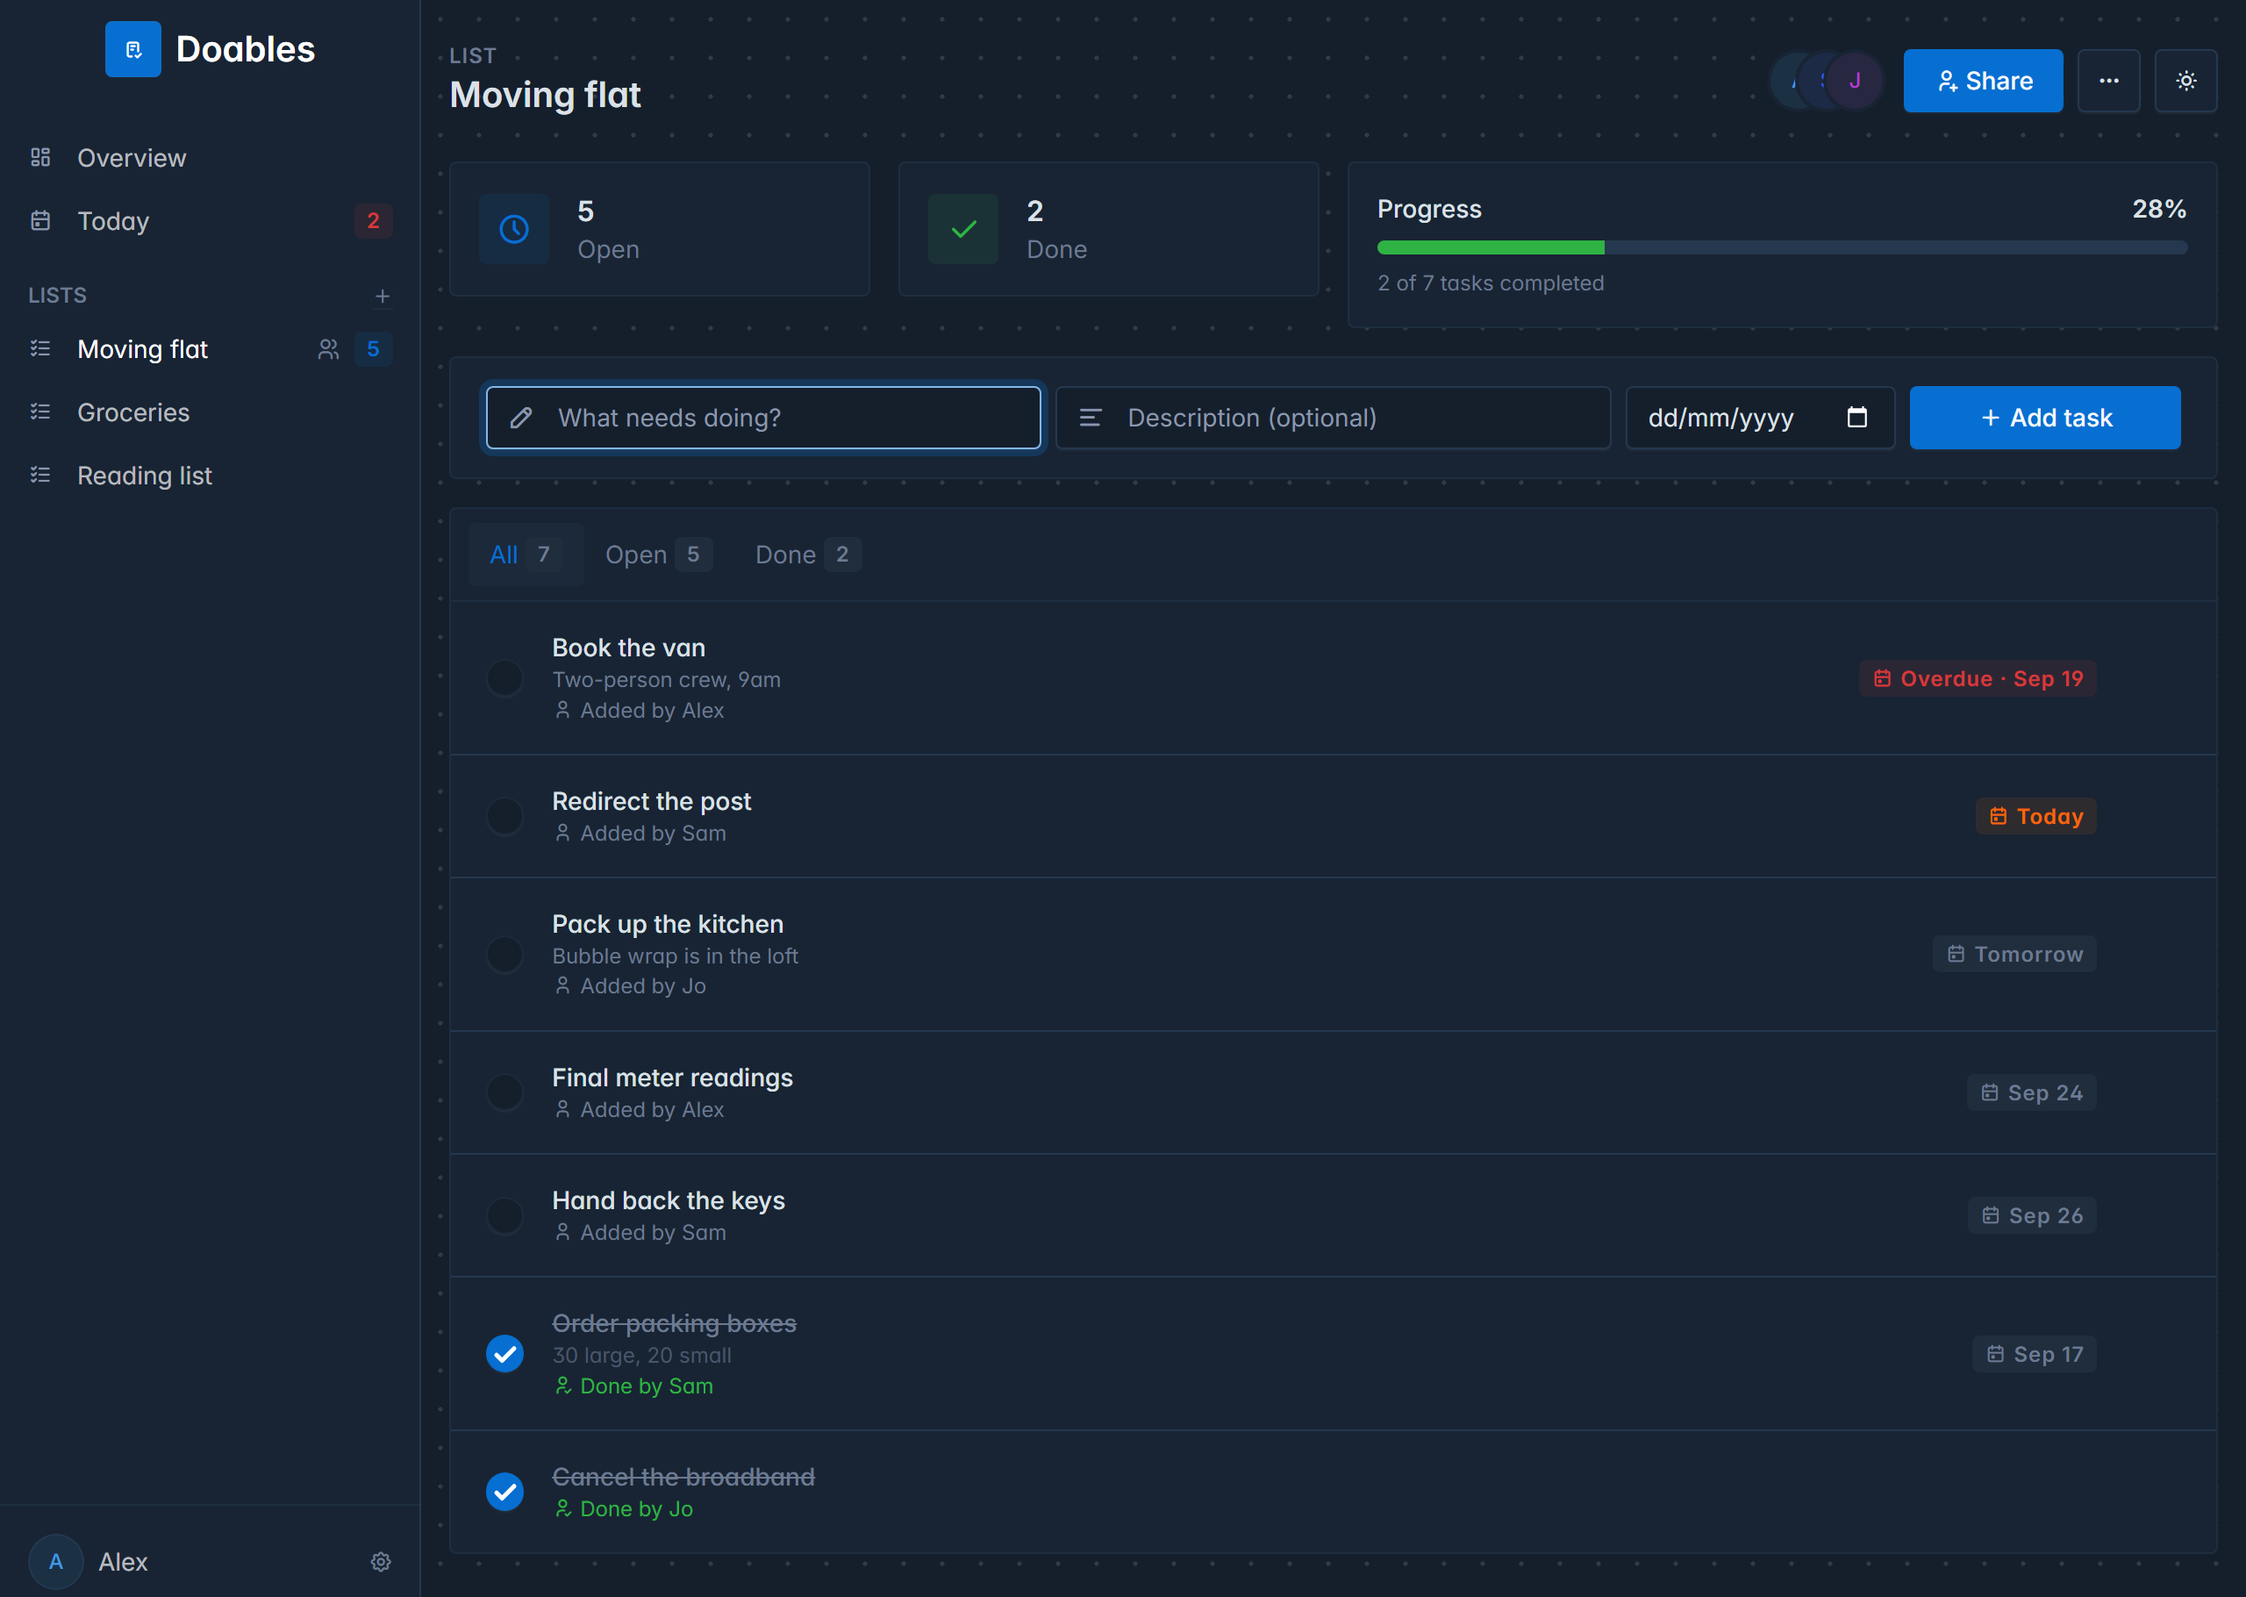
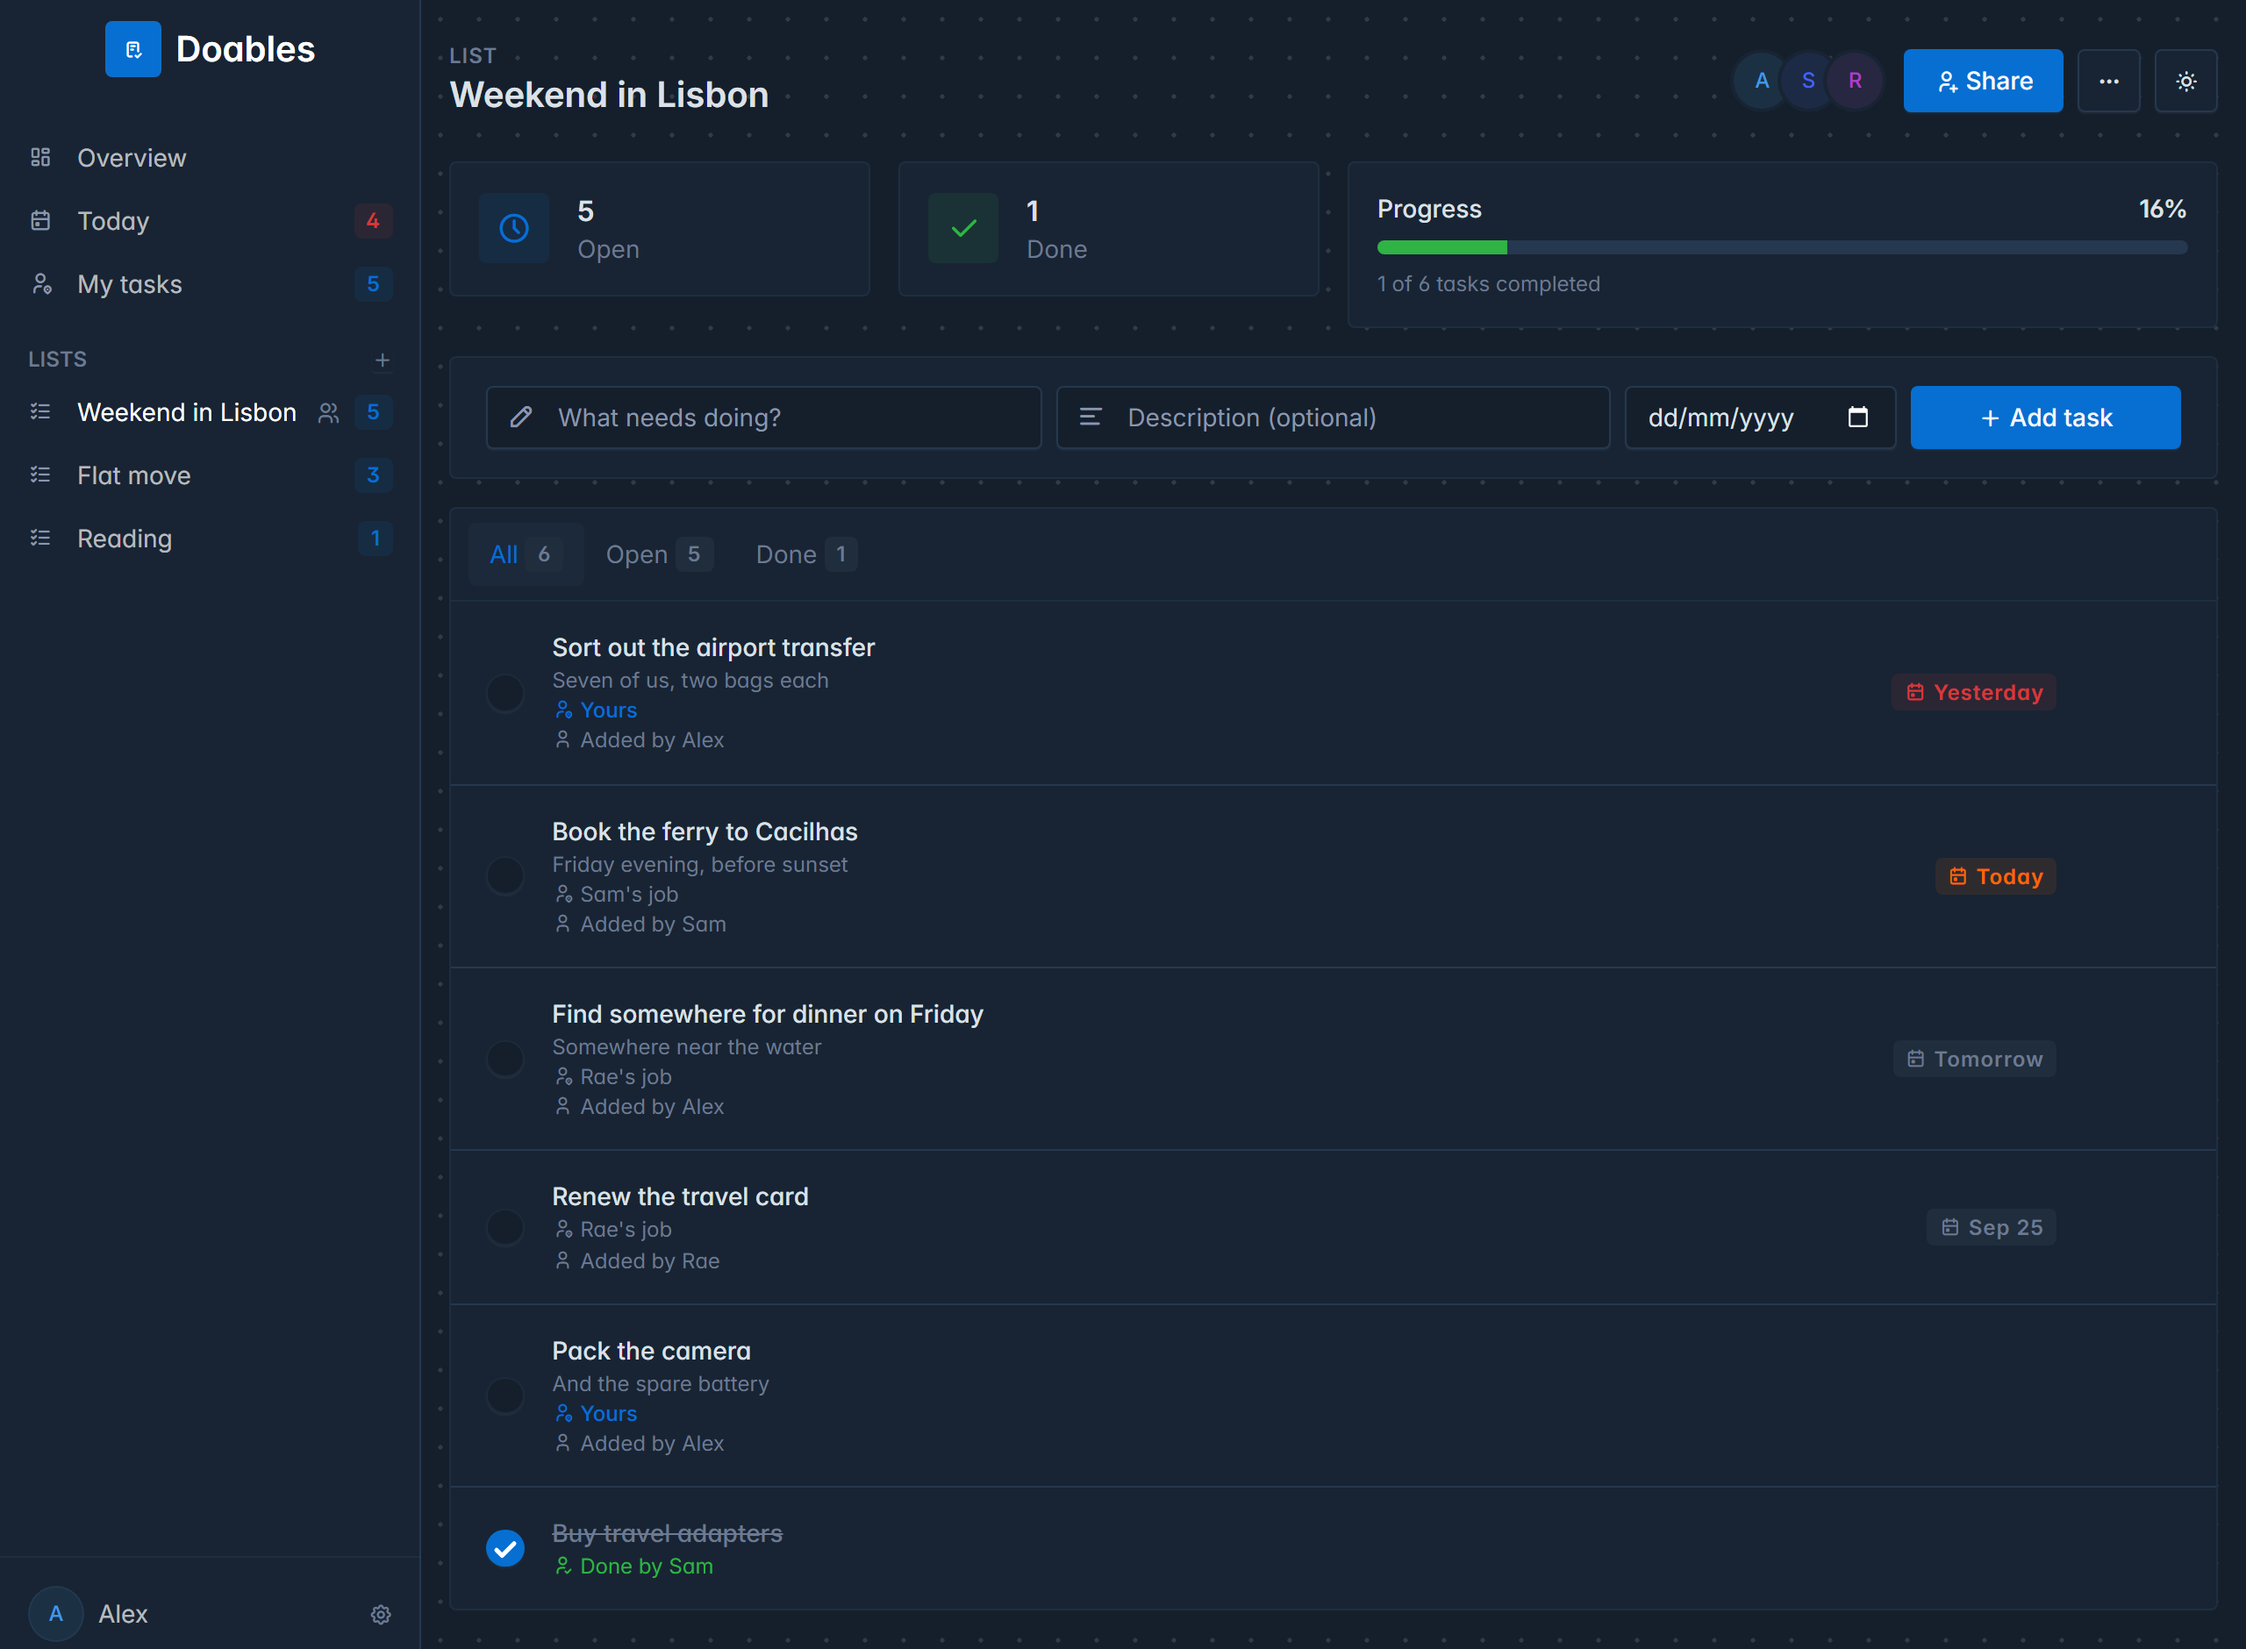
Reshoot the screenshots, now that tasks have owners
The pictures still showed a version of the app where nobody could be
given anything. They now show a list of three people with work divided
between them, and there is a new one for "My tasks".

Two things came out of taking them. The phone screenshot is a real
390px render this time: Chrome's --screenshot clamps the window width on
Windows, so the old one was 528px wearing a phone's clothes. Driving
Chrome over DevTools instead also fixes prefers-color-scheme, which that
flag ignores, so the light picture is genuinely light rather than a
second copy of the dark one.

It also showed up a real bug: Tabler overlaps stacked avatars by 16px,
which is most of a 24px avatar, so with three people on a list their
initials were sliced in half. They overlap gently now.

diff --git a/internal/web/templates/partials.html b/internal/web/templates/partials.html
@@ -39,7 +39,10 @@
     .list-card:hover { transform: translateY(-2px); box-shadow: var(--tblr-box-shadow-card); }
     :root[data-bs-theme="dark"] .icon-to-dark, :root:not([data-bs-theme="dark"]) .icon-to-light { display: none; }
     .stat-icon { width: 2.5rem; height: 2.5rem; }
-    /* Tabler's negative margin on the last avatar would overlap the Share button */
+    /* Tabler's negative margin on the last avatar would overlap the Share button,
+       and with three or more people it hides so much of each that the initials
+       are unreadable; overlap them a little instead. */
+    .avatar-list-stacked .avatar { margin-right: -.35rem !important; }
     .avatar-list-stacked .avatar:last-child { margin-right: 0 !important; }
     .avatar-list-stacked .avatar { box-shadow: 0 0 0 2px var(--tblr-bg-surface); }
     /* Tabler lets a vertical navbar's nav grow to fill the sidebar; with several

diff --git a/README.md b/README.md
@@ -10,17 +10,23 @@ Includes a CLI (Cobra + Resty) that talks to the server's JSON API.
 
 <picture>
   <source media="(prefers-color-scheme: dark)" srcset="docs/list-dark.png">
-  <img alt="A shared list in Doables: tasks with due dates, who added each one and who finished it" src="docs/list-light.png">
+  <img alt="A shared list in Doables: tasks with due dates, whose job each one is, who added it and who finished it" src="docs/list-light.png">
 </picture>
 
 <table>
 <tr>
 <td width="62%"><img alt="The Today view, gathering everything due across every list" src="docs/today-dark.png"></td>
-<td width="38%"><img alt="Doables on a narrow screen, with a bottom tab bar" src="docs/mobile-dark.png"></td>
+<td width="38%"><img alt="Doables on a phone, with a bottom tab bar" src="docs/mobile-dark.png"></td>
 </tr>
 <tr>
 <td><em>Today, across all your lists</em></td>
-<td><em>On a narrow screen</em></td>
+<td><em>On a phone</em></td>
+</tr>
+<tr>
+<td colspan="2"><img alt="My tasks: the open tasks assigned to you, from every list" src="docs/mine-dark.png"></td>
+</tr>
+<tr>
+<td colspan="2"><em>My tasks: what other people have made your job</em></td>
 </tr>
 </table>
 
